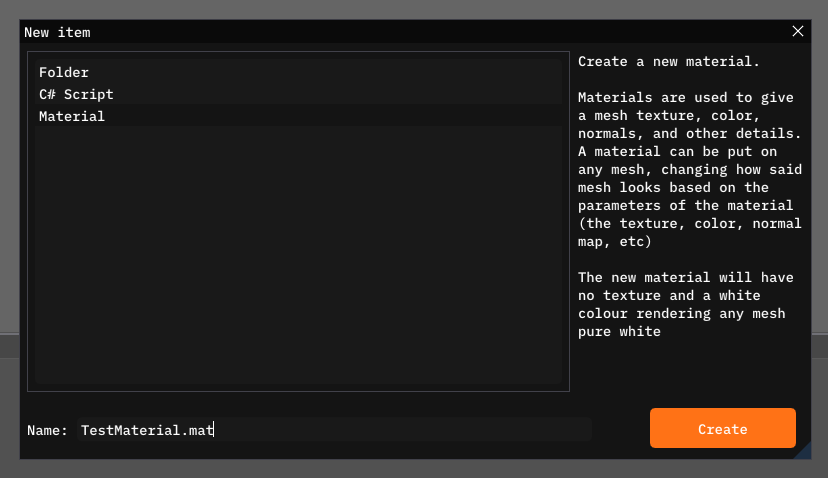
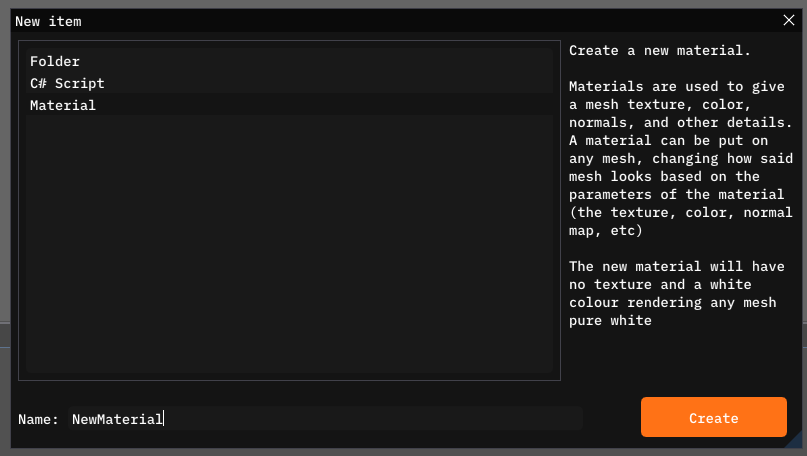
Fixed EntityView (finally)

Changed region(s): [[0.0, 0.0, 1.0, 0.9825]]

diff --git a/Copper-Engine/src/Engine/Scene/EntityView.h b/Copper-Engine/src/Engine/Scene/EntityView.h
@@ -17,15 +17,18 @@ namespace Copper {
             if (scene->GetNumOfEntities() == 0) {
 
                 m_beginIndex = 1;
-                m_endIndex = 0;
+                m_endIndex = 1;
                 return;
 
             }
 
-            m_endIndex = scene->GetNumOfEntities() - 1;
+            m_endIndex = scene->GetNumOfEntities();
 
-            while (m_beginIndex != m_endIndex + 1 && !(scene->GetEntityFromID(m_beginIndex))) { m_beginIndex++; }
-            while (m_endIndex >= m_beginIndex && !(scene->GetEntityFromID(m_endIndex))) { m_endIndex--; }
+            while (scene->GetEntityFromID(m_beginIndex) == nullptr)
+                m_beginIndex++;
+
+            while (m_endIndex > m_beginIndex + 1 && scene->GetEntityFromID(m_endIndex - 1) == nullptr)
+                m_endIndex--;
 
         }
 
@@ -40,25 +43,26 @@ namespace Copper {
         struct Iterator {
 
         public:
-            Iterator(uint32_t index, Scene* scene, uint32_t endIndex = 0) : m_index(index), m_scene(scene), m_endIndex(endIndex) {}
+            Iterator(uint32_t index, Scene* scene) : m_index(index), m_scene(scene), m_endIndex(0) {}
+            Iterator(uint32_t index, Scene* scene, uint32_t endIndex) : m_index(index), m_scene(scene), m_endIndex(endIndex) {}
 
-            InternalEntity* operator*() { CUP_FUNCTION(); return m_scene->GetEntityFromID(m_index); }
+            InternalEntity* operator*() {
 
-            bool operator!=(const Iterator& other) { return m_index != other.m_index + 1; }
+                CUP_FUNCTION();
+
+                CU_ASSERT(m_scene->GetEntityFromID(m_index) != nullptr, "Entity View iterator is at nullptr! Index: {}", m_index);
+                return m_scene->GetEntityFromID(m_index);
+
+            }
+
+            bool operator!=(const Iterator& other) { return m_index != other.m_index; }
 
             Iterator& operator++() {
 
                 CUP_FUNCTION();
 
-                if (m_index == m_endIndex) {
-
-                    m_index++;
-                    return *this;
-
-                }
-
                 do m_index++;
-                while (!(m_scene->GetEntityFromID(m_index)));
+                while (m_index < m_endIndex && m_scene->GetEntityFromID(m_index) == nullptr);
 
                 return *this;
 
@@ -66,8 +70,8 @@ namespace Copper {
 
         private:
             uint32_t m_index;
-            Scene* m_scene;
             uint32_t m_endIndex;
+            Scene* m_scene;
 
         };
 

diff --git a/Copper-Editor/src/Core/EditorApp.cpp b/Copper-Editor/src/Core/EditorApp.cpp
@@ -361,14 +361,13 @@ namespace Editor {
 
         ImGui::PushStyleVar(ImGuiStyleVar_WindowPadding, ImVec2 {0, 0});
         bool open = ImGui::Begin("Game");
+        ImGui::PopStyleVar();
 
         if (!open) {
 
             ImGui::End();
-            ImGui::PopStyleVar();
 
             CUP_END_FRAME();
-
             return;
 
         }
@@ -377,10 +376,8 @@ namespace Editor {
             ImGui::Text("No Camera Available!");
 
             ImGui::End();
-            ImGui::PopStyleVar();
 
             CUP_END_FRAME();
-
             return;
 
         }
@@ -403,7 +400,6 @@ namespace Editor {
         }
 
         ImGui::End();
-        ImGui::PopStyleVar();
 
         CUP_END_FRAME();
 

diff --git a/Copper-Engine/src/Engine/Scripting/InternalCalls/Input/Input.cs.cpp b/Copper-Engine/src/Engine/Scripting/InternalCalls/Input/Input.cs.cpp
@@ -14,7 +14,7 @@
 
 extern bool IsGameAcceptingInput();
 #else
-#define CHECKCHECK_ACCEPTING_INPUT()
+#define CHECK_ACCEPTING_INPUT(retValue)
 #endif
 
 namespace Copper::Scripting::Input {
@@ -34,7 +34,7 @@ namespace Copper::Scripting::Input {
 
         CUP_FUNCTION();
 
-        CHECK_ACCEPTING_INPUT(0);
+        CHECK_ACCEPTING_INPUT(0.0f);
 
         std::string axisName;
         MonoUtils::MonoStringToString(axis, axisName);
@@ -46,7 +46,7 @@ namespace Copper::Scripting::Input {
 
         CUP_FUNCTION();
 
-        CHECK_ACCEPTING_INPUT(0);
+        CHECK_ACCEPTING_INPUT(0.0f);
 
         std::string axisName;
         MonoUtils::MonoStringToString(axis, axisName);

diff --git a/Copper-Editor/src/Core/SceneSerializer.cpp b/Copper-Editor/src/Core/SceneSerializer.cpp
@@ -100,6 +100,9 @@ namespace Editor::SceneSerializer {
 
         CUP_FUNCTION();
 
+        CU_ASSERT(entity != nullptr,"Triedto serialize a nullptr entity!");
+        CU_ASSERT(entity->GetID() != INVALID_ENTITY_ID, "Tried to serialize an invalid entity! Entity: '{}'", *entity);
+
         out << YAML::Key << entity->GetID() << YAML::Value << YAML::BeginMap; // Entity
 
         out << YAML::Key << "Name" << YAML::Value << entity->name;

diff --git a/Copper-Engine/src/Engine/Scene/Registry.h b/Copper-Engine/src/Engine/Scene/Registry.h
@@ -144,7 +144,9 @@ namespace Copper {
 
             CUP_FUNCTION();
 
-            if (eID == INVALID_ENTITY_ID || eID >= m_entities.size()) return nullptr;
+            if (eID >= m_entities.size()) return nullptr;
+            if (m_entities[eID].m_id == INVALID_ENTITY_ID) return nullptr;
+
             return &m_entities[eID];
 
         }

diff --git a/Documentation/Guide/02 - Copper-Editor.md b/Documentation/Guide/02 - Copper-Editor.md
@@ -24,6 +24,7 @@ You can select the gizmo operation (move, rotate, scale) or the mode (global loc
 Or select the operation by pressing Q, W, or E.
 
 WARNING: The rotation gizmos looks a bit funky for some reason
+
 ERROR: the gizmos get a little bit quirky ~~at night~~ when you try to operate on a child of an entity. This will be fixed sometime in the next few years.
 
 ### Scene Hierarchy
